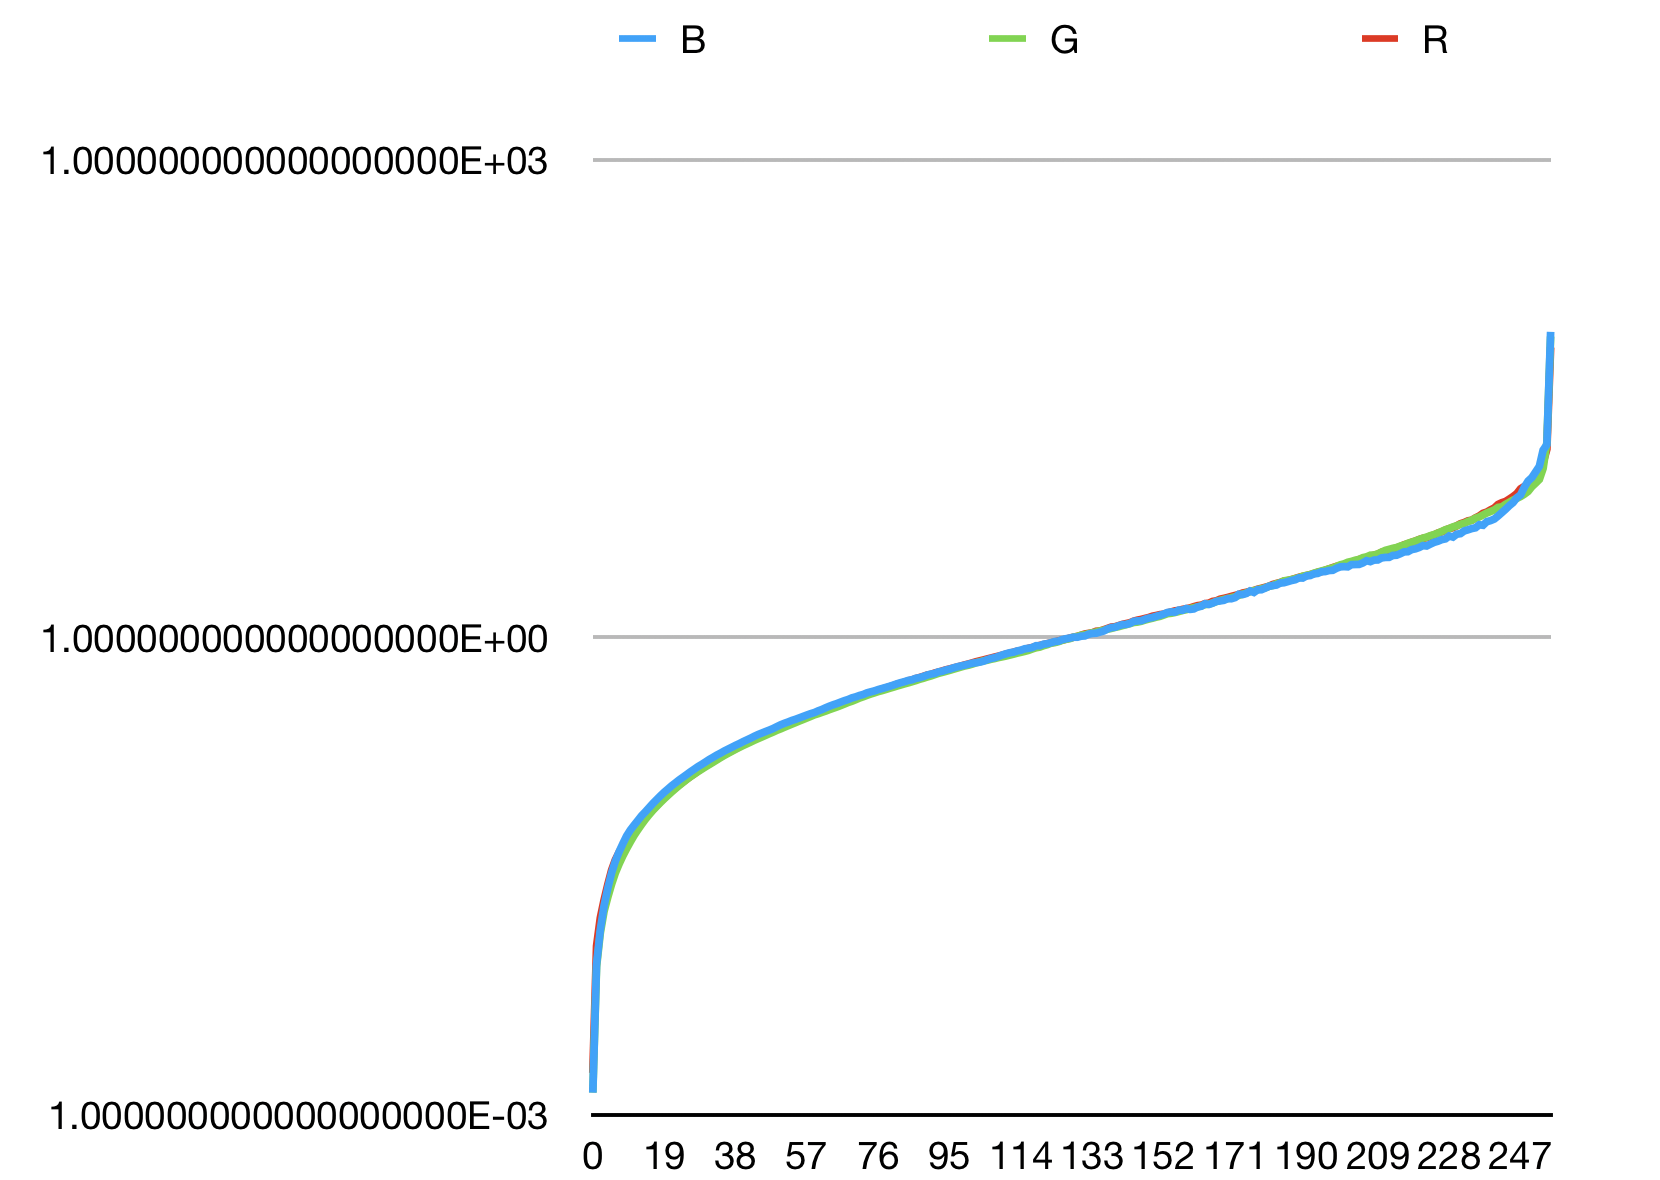
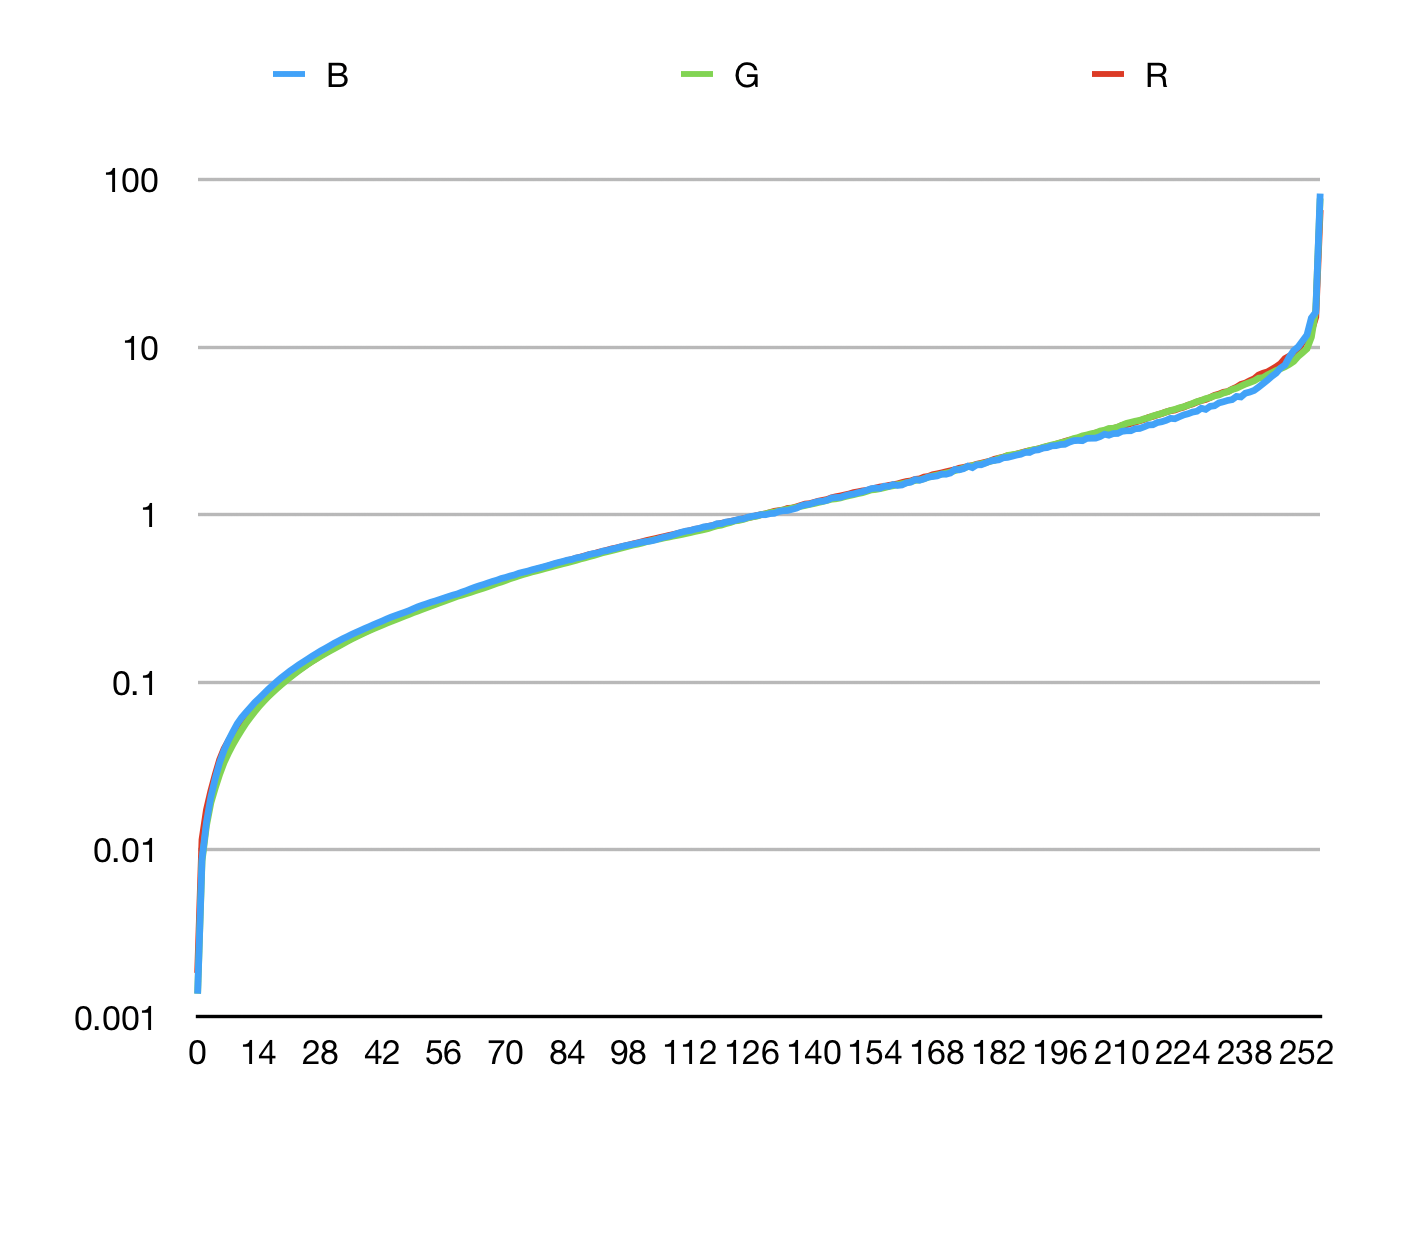
change picture(digit), readme.md change style & add content, main.py adjust help on -a

diff --git a/main.py b/main.py
@@ -33,7 +33,7 @@ if __name__ == '__main__':
                         help='if you have g function(inverse of reponse function), use this to run Robert HDR with it',
                         action="store_true")
     parser.add_argument('-a', '--align', 
-                        help='Do alignment or not, it will do level+1 times of shift',
+                        help='Do alignment or not, level will increase the range of alignment(level of image pyramid)',
                         type=int, dest='level', default=-1)
     parser.add_argument('-c0', '--curve0', 
                         help='gfunction file for channel 0, only will be used when -g',
